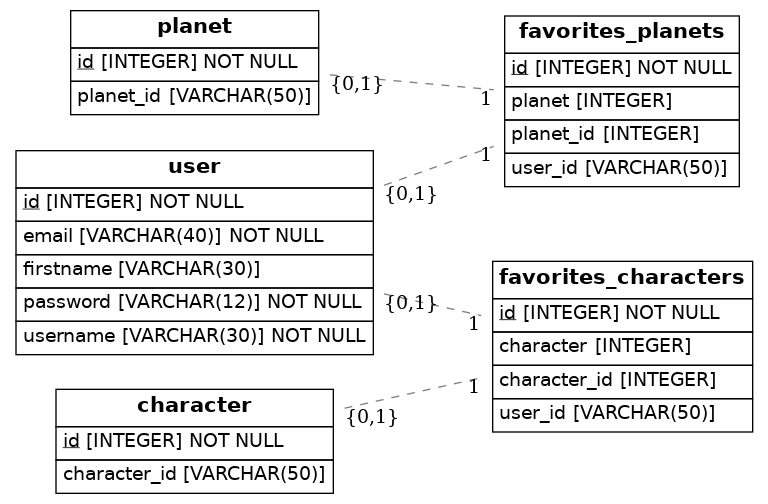
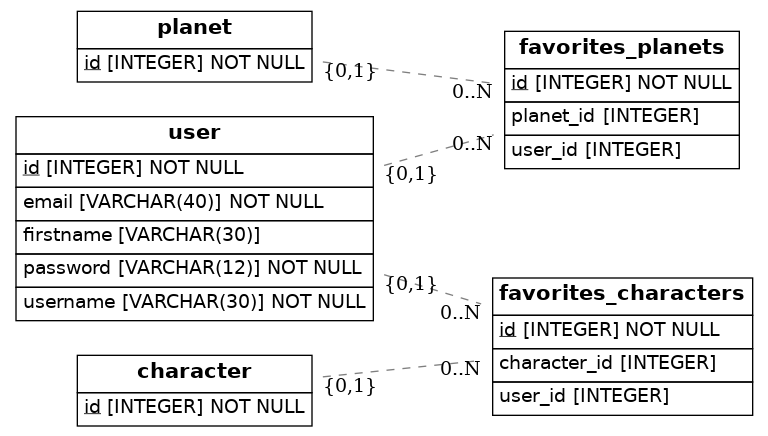
correccion

Changed region(s): [[0.0, 0.0298, 1.0, 0.9839], [0.0938, 0.0, 0.5938, 0.2385]]

diff --git a/src/models.py b/src/models.py
@@ -14,37 +14,39 @@ class User(Base):
     firstname= Column(String(30))
     email= Column(String(40),nullable=False,unique=True)
     password=Column(String(12),nullable=False)
-    favorites_planets= relationship('Favorites_planets',back_populates='planetId_relationship')
-    favorites_characters= relationship('Favorites_characters',back_populates='characterId_relationship')
+    favorites_planets= relationship('Favorites_planets',back_populates='planet')
+    favorites_characters= relationship('Favorites_characters',back_populates='character')
 
 class Favorites_planets(Base):
     __tablename__ = 'favorites_planets'
     id = Column(Integer, primary_key=True)
-    user_id = Column(Integer,ForeignKey('User.id'))
+    user_id = Column(Integer,ForeignKey('user.id'))
     planet_id = Column(Integer,ForeignKey('planet.id'))
-    planet_relationship= relationship('User',back_populates='favorites_planets')
-    planet=Column(Integer,ForeignKey('Planet.id'))
-    planet_relationship= relationship('Planet',back_populates='favorites_planets')
+    planet=Column(Integer,ForeignKey('planet.id'))
+    
+    user = relationship('User',back_populates='favorites_planets')
+    planet = relationship('Planet',back_populates='favorites_planets')
       
 class Favorites_characters(Base):
     __tablename__='favorites_characters'
     id=Column(Integer,primary_key=True)
-    user_id=Column(Integer,ForeignKey('User.id'))
-    character_id=Column(Integer,ForeignKey('Character.id'))
-    characterId_relationship= relationship('User',back_populates='favorites_characters')
-    character= Column(Integer,ForeignKey('Character.id'))
-    character_relationship= relationship('Character',back_populates='favorites_characters')
+    user_id=Column(Integer,ForeignKey('user.id'))
+    character_id=Column(Integer,ForeignKey('character.id'))
+    character= Column(Integer,ForeignKey('character.id'))
+    
+    user = relationship('User',back_populates='favorites_characters')
+    character= relationship('Character',back_populates='favorites_characters')
 
 class Planet(Base):
     __tablename__='planet'
     id=Column(Integer,primary_key=True)
-    favorites_planets= relationship('Favorites_planets',back_populates='planet_relationship')
+    favorites_planets= relationship('Favorites_planets',back_populates='planet')
 
     
 class Character(Base):
     __tablename__='character'
     id=Column(Integer,primary_key=True)
-    favorites_characters= relationship('Favorites_characters',back_populates='character_relationship')
+    favorites_characters= relationship('Favorites_characters',back_populates='character')
 
     
     def to_dict(self):
